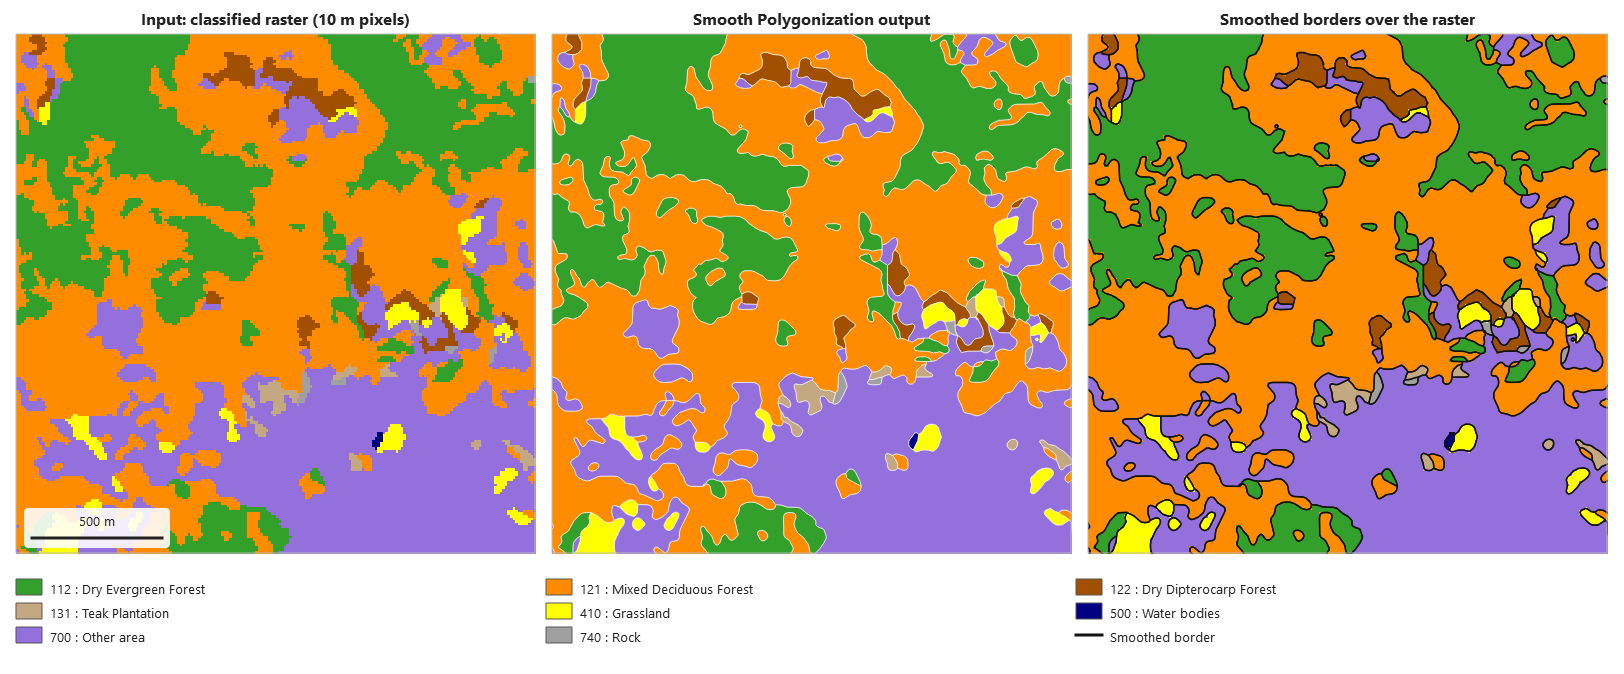
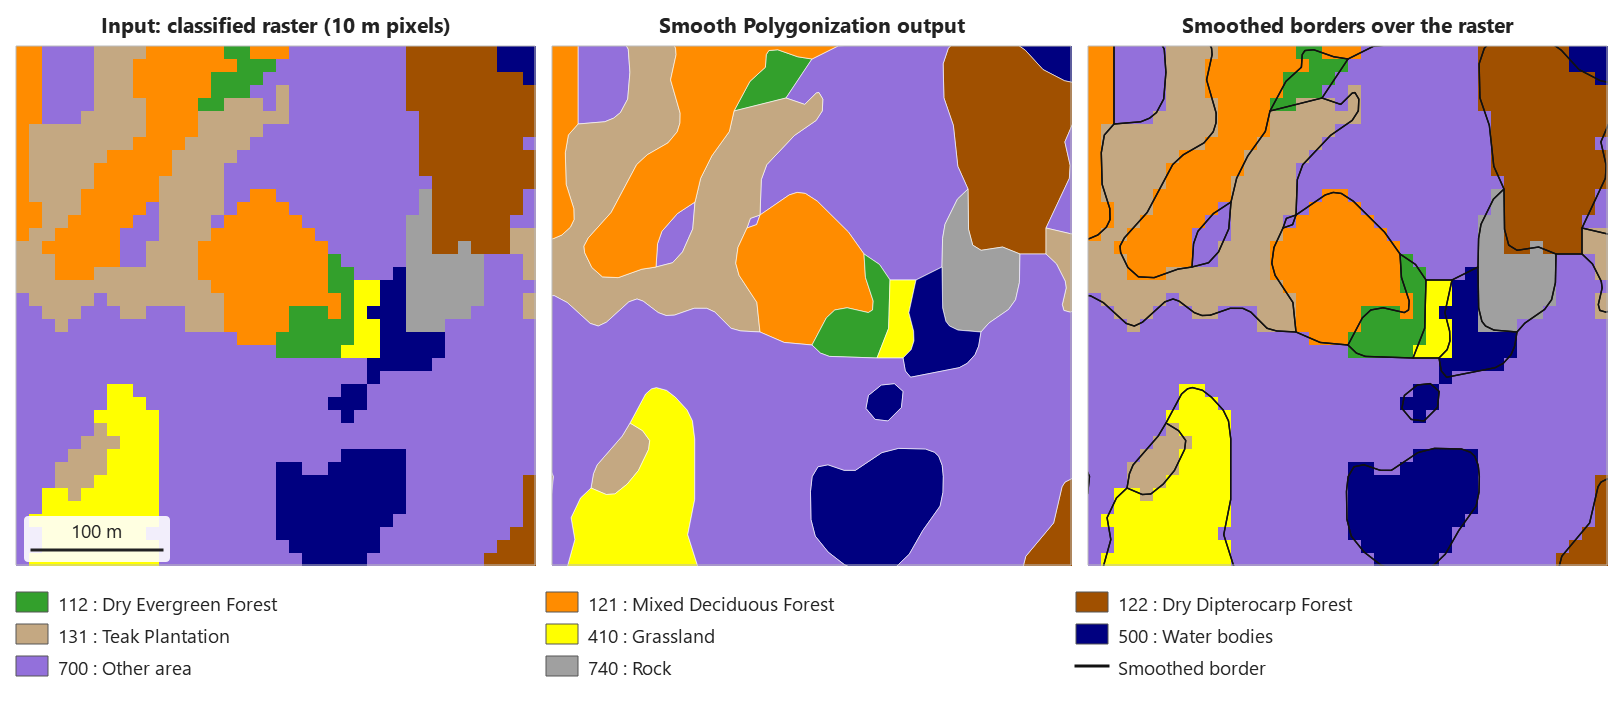
README: installation, zoomed examples, side-by-side workflow, release link

diff --git a/tools/make_workflow_image.py b/tools/make_workflow_image.py
@@ -1,0 +1,148 @@
+"""Side-by-side workflow of the two tools for the README (docs/images/workflow.png).
+
+    "C:\\Program Files\\QGIS 4.2.2\\bin\\python-qgis.bat" tools\\make_workflow_image.py
+
+Same drawing style and colours as the help-panel pictures (make_help_images.py):
+orange = input, purple = raster steps of Smooth Polygonization only, blue = the
+Smooth Polygons engine (identical in both tools), green = output.  The shared
+engine steps sit on the same rows in both columns.  Drawn as SVG and rendered
+with Qt at 2x (PNG shows in every Markdown viewer).
+"""
+import os
+import sys
+
+ROOT = os.path.dirname(os.path.dirname(os.path.abspath(__file__)))
+OUT_SVG = os.path.join(ROOT, 'docs', 'images', 'workflow.svg')
+OUT_PNG = os.path.join(ROOT, 'docs', 'images', 'workflow.png')
+
+COL_W = 330
+GAP = 44
+PAD = 22
+HEAD = 34          # column title band
+BOX_H = 54
+LINE_H = 15
+ROW = 82           # row pitch
+FONT = 'Segoe UI'
+
+INPUT = ('#FFF4DE', '#D08A1E')
+RASTER = ('#F1E8FA', '#7E57C2')
+ENGINE = ('#E3EEFB', '#3B73B9')
+OUTPUT = ('#E6F4EA', '#3C8D50')
+
+ENGINE_STEPS = [
+    ('Find the shared borders', 'left / right polygon of every edge'),
+    ('Join edges into arcs', 'one arc per border between two neighbours'),
+    ('Smooth every arc once', 'Gaussian, Chaikin, … (parallel workers)'),
+    ('Rebuild every polygon', 'from its own arcs: no gaps, no overlaps'),
+    ('Check every polygon', 'problem spots are smoothed more gently'),
+]
+
+# (row, title, subtitle, colours) per column; rows 0..2 are before the engine
+LEFT = [(2, 'Polygon layer', 'polygons that do not overlap', INPUT)]
+RIGHT = [(0, 'Classified raster', 'whole-number classes (e.g. Sentinel-2)', INPUT),
+         (1, 'Remove small patches', 'GDAL Sieve (optional)', RASTER),
+         (2, 'Pixels to polygons', 'GDAL Polygonize', RASTER)]
+FIRST_ENGINE = 3
+OUT_ROW = FIRST_ENGINE + len(ENGINE_STEPS)
+LEFT_OUT = ('Smoothed polygons', 'same attributes as the input', OUTPUT)
+RIGHT_OUT = ('Smoothed polygons', 'field class_value; nodata stays empty', OUTPUT)
+
+
+def esc(t):
+    return t.replace('&', '&amp;').replace('<', '&lt;').replace('>', '&gt;')
+
+
+ENGINE_GAP = 30    # extra space above the engine frame
+
+
+def row_y(r):
+    return PAD + HEAD + 14 + r * ROW + (ENGINE_GAP if r >= FIRST_ENGINE else 0)
+
+
+def box(x, r, title, sub, colours):
+    fill, stroke = colours
+    y = row_y(r)
+    w = COL_W - 56
+    bx = x + (COL_W - w) / 2
+    return ('<rect x="{:.1f}" y="{}" width="{}" height="{}" rx="8" fill="{}" stroke="{}" '
+            'stroke-width="1.6"/>'
+            '<text x="{:.1f}" y="{}" font-size="14" font-weight="bold" fill="#1F1F1F" '
+            'text-anchor="middle">{}</text>'
+            '<text x="{:.1f}" y="{}" font-size="11.5" fill="#444" text-anchor="middle">{}</text>'
+            ).format(bx, y, w, BOX_H, fill, stroke, x + COL_W / 2, y + 22, esc(title),
+                     x + COL_W / 2, y + 40, esc(sub))
+
+
+def arrow(x, r_from, r_to):
+    cx = x + COL_W / 2
+    y1 = row_y(r_from) + BOX_H + 2
+    y2 = row_y(r_to) - 3
+    return ('<line x1="{0}" y1="{1}" x2="{0}" y2="{2}" stroke="#666" stroke-width="1.6"/>'
+            '<polygon points="{0},{3} {4},{5} {6},{5}" fill="#666"/>').format(
+                cx, y1, y2 - 6, y2, cx - 5, y2 - 8, cx + 5)
+
+
+def frame(x, y, w, h, colours, title, fill='#FFFFFF', bold=True, size=15, left=False):
+    _, stroke = colours
+    tx, anchor = (x + 12, 'start') if left else (x + w / 2, 'middle')
+    return ('<rect x="{}" y="{}" width="{}" height="{}" rx="10" fill="{}" stroke="{}" '
+            'stroke-width="2"/><text x="{}" y="{}" font-size="{}" font-weight="{}" fill="{}" '
+            'text-anchor="{}">{}</text>').format(
+                x, y, w, h, fill, stroke, tx, y + 20, size, 'bold' if bold else 'normal',
+                stroke, anchor, esc(title))
+
+
+def svg():
+    W = 2 * COL_W + GAP + 2 * PAD
+    H = row_y(OUT_ROW) + BOX_H + PAD + 10
+    parts = []
+    xl, xr = PAD, PAD + COL_W + GAP
+    top = PAD
+    bottom = row_y(OUT_ROW) + BOX_H + 12
+    # outer frames: Smooth Polygons (blue), Smooth Polygonization (purple)
+    lt = row_y(2) - HEAD - 8
+    parts.append(frame(xl, lt, COL_W, bottom - lt, ENGINE, 'Smooth Polygons', '#F4F8FD'))
+    parts.append(frame(xr, top, COL_W, bottom - top, RASTER, 'Smooth Polygonization'))
+    # the engine inside Smooth Polygonization = Smooth Polygons
+    et = row_y(FIRST_ENGINE) - 30
+    eb = row_y(OUT_ROW - 1) + BOX_H + 12
+    parts.append(frame(xr + 10, et, COL_W - 20, eb - et, ENGINE, 'Smooth Polygons',
+                       '#F4F8FD', bold=False, size=12.5, left=True))
+    for x, before, out in ((xl, LEFT, LEFT_OUT), (xr, RIGHT, RIGHT_OUT)):
+        rows = [r for r, _, _, _ in before]
+        for r, t, s, c in before:
+            parts.append(box(x, r, t, s, c))
+        for k, (t, s) in enumerate(ENGINE_STEPS):
+            parts.append(box(x, FIRST_ENGINE + k, t, s, ENGINE))
+        parts.append(box(x, OUT_ROW, out[0], out[1], out[2]))
+        seq = rows + list(range(FIRST_ENGINE, OUT_ROW + 1))
+        for a, b in zip(seq, seq[1:]):
+            parts.append(arrow(x, a, b))
+    return ('<svg xmlns="http://www.w3.org/2000/svg" width="{0}" height="{1}" '
+            'viewBox="0 0 {0} {1}" font-family="{2}"><rect width="100%" height="100%" '
+            'fill="#FFFFFF"/>{3}</svg>').format(W, H, FONT, ''.join(parts))
+
+
+def main():
+    from qgis.PyQt.QtCore import QRectF
+    from qgis.PyQt.QtGui import QColor, QImage, QPainter
+    from qgis.PyQt.QtSvg import QSvgRenderer
+    from qgis.PyQt.QtWidgets import QApplication
+    app = QApplication.instance() or QApplication(sys.argv[:1])  # noqa: F841 (fonts)
+    os.makedirs(os.path.dirname(OUT_SVG), exist_ok=True)
+    with open(OUT_SVG, 'w', encoding='utf-8') as f:
+        f.write(svg())
+    r = QSvgRenderer(OUT_SVG)
+    size = r.defaultSize()
+    img = QImage(size.width() * 2, size.height() * 2, QImage.Format.Format_ARGB32)
+    img.fill(QColor('white'))
+    p = QPainter(img)
+    p.setRenderHint(QPainter.RenderHint.Antialiasing)
+    r.render(p, QRectF(0, 0, img.width(), img.height()))
+    p.end()
+    assert img.save(OUT_PNG), OUT_PNG
+    print('wrote', OUT_PNG, img.width(), 'x', img.height())
+
+
+if __name__ == '__main__':
+    main()

diff --git a/README.md b/README.md
@@ -15,6 +15,62 @@ GeoVanguard comes in two forms that share one engine and give bit-identical resu
 | **QGIS plugin** `geovanguard_qgis` | QGIS users (Processing Toolbox, models, batch) | QGIS *Plugins › Manage and Install Plugins* › "GeoVanguard" | QGIS 3.40+ or 4.x only |
 | **Python package** `geovanguard` | scripts, servers, pipelines | from this repository (`pip`/`conda` packages planned) | Python, numpy, GDAL, shapely ≥ 2 |
 
+## Installation
+
+### QGIS Plugin Installation
+
+Requires QGIS 3.40 LTR or 4.x (Windows, macOS or Linux); nothing else to install.
+
+**From the QGIS Plugin Manager** (after the plugin is published there)
+
+1. QGIS menu **Plugins › Manage and Install Plugins…**
+2. **All** › search for **GeoVanguard** › **Install Plugin**
+3. Open the **Processing Toolbox** (*Processing › Toolbox*, `Ctrl+Alt+T`) ›
+   **GeoVanguard › Smoothing Topology Preserver** › *Smooth Polygons* or
+   *Smooth Polygonization*.
+
+**From a ZIP file**
+
+1. Download `geovanguard_qgis-<version>.zip` from the
+   [latest release](https://github.com/Knight60/GeoVanguard/releases/latest) (do not unzip it).
+2. **Plugins › Manage and Install Plugins… › Install from ZIP** › choose the file ›
+   **Install Plugin**.
+3. Make sure **GeoVanguard** is ticked under **Installed**; the tools appear in the
+   Processing Toolbox as above.
+
+To update, install the newer ZIP (or use *Upgrade* in the Plugin Manager);
+restart QGIS afterwards.
+
+### Standalone Installation
+
+The `geovanguard` Python package runs the same engine without QGIS (scripts,
+servers, batch jobs). It needs Python ≥ 3.9 with **numpy**, **GDAL** (`osgeo`)
+and **shapely ≥ 2**; **scipy** is optional (B-Spline / Bezier). `pip` / `conda`
+packages are planned; until then use the source:
+
+**With conda (recommended — brings GDAL)**
+
+```bash
+conda create -n geovanguard -c conda-forge python=3.12 numpy gdal "shapely>=2" scipy
+conda activate geovanguard
+git clone https://github.com/Knight60/GeoVanguard.git
+cd GeoVanguard
+export PYTHONPATH="$PWD"            # Windows (cmd): set PYTHONPATH=%CD%
+python -c "import geovanguard; print(geovanguard.__version__)"
+```
+
+**With the Python that comes with QGIS** (Windows: *OSGeo4W Shell*, which already
+has numpy, GDAL and shapely)
+
+```bat
+git clone https://github.com/Knight60/GeoVanguard.git
+cd GeoVanguard
+set PYTHONPATH=%CD%
+python -c "import geovanguard; print(geovanguard.__version__)"
+```
+
+Then see [Standalone use](#standalone-use) below.
+
 ## Tools
 
 ### Smoothing Topology Preserver
@@ -70,30 +126,14 @@ full map gave 385,679 valid polygons (no repair needed) in 17.6 minutes with
 
 ## Workflow
 
-### Smooth Polygons
+*Smooth Polygonization* turns the classified raster into polygons and then runs
+**Smooth Polygons** on them. Colours: orange = input, purple = raster steps of
+Smooth Polygonization only, blue = the Smooth Polygons engine (the same in both
+tools), green = output.
 
-```mermaid
-flowchart TD
-    A["Polygon layer<br/>(no overlaps)"] --> B["Load and quantise<br/>tiles + work folder (checkpoints)"]
-    B --> C["Find the shared borders<br/>each edge gets its left / right polygon (LPoly / RPoly);<br/>missing junction vertices are added"]
-    C --> D["Join edges into arcs<br/>each border between two neighbours is stored once"]
-    D --> E["Smooth every arc once<br/>Gaussian · Chaikin · B-Spline · Bezier · Douglas-Peucker<br/>(parallel worker processes)"]
-    E --> F["Rebuild every polygon from its own arcs<br/>neighbours use the same smoothed border"]
-    F --> G{"Valid?"}
-    G -- yes --> H["Smoothed polygons<br/>(attributes kept)"]
-    G -- "no" --> R["Repair only the problem spot<br/>smooth more gently there, keep the rest"]
-    R --> F
-```
+<p align="center"><img src="docs/images/workflow.png" alt="Workflow of Smooth Polygons and Smooth Polygonization" width="820"></p>
 
-### Smooth Polygonization
-
-```mermaid
-flowchart TD
-    A["Classified raster<br/>(integer classes)"] --> S["Remove small patches<br/>GDAL Sieve (optional)"]
-    S --> P["Pixels to polygons<br/>GDAL Polygonize"]
-    P --> B["Same engine as Smooth Polygons<br/>shared borders → smooth once → rebuild → repair"]
-    B --> H["Smoothed polygons<br/>field class_value; nodata stays empty"]
-```
+Drawn by [tools/make_workflow_image.py](tools/make_workflow_image.py).
 
 ## How it works
 
